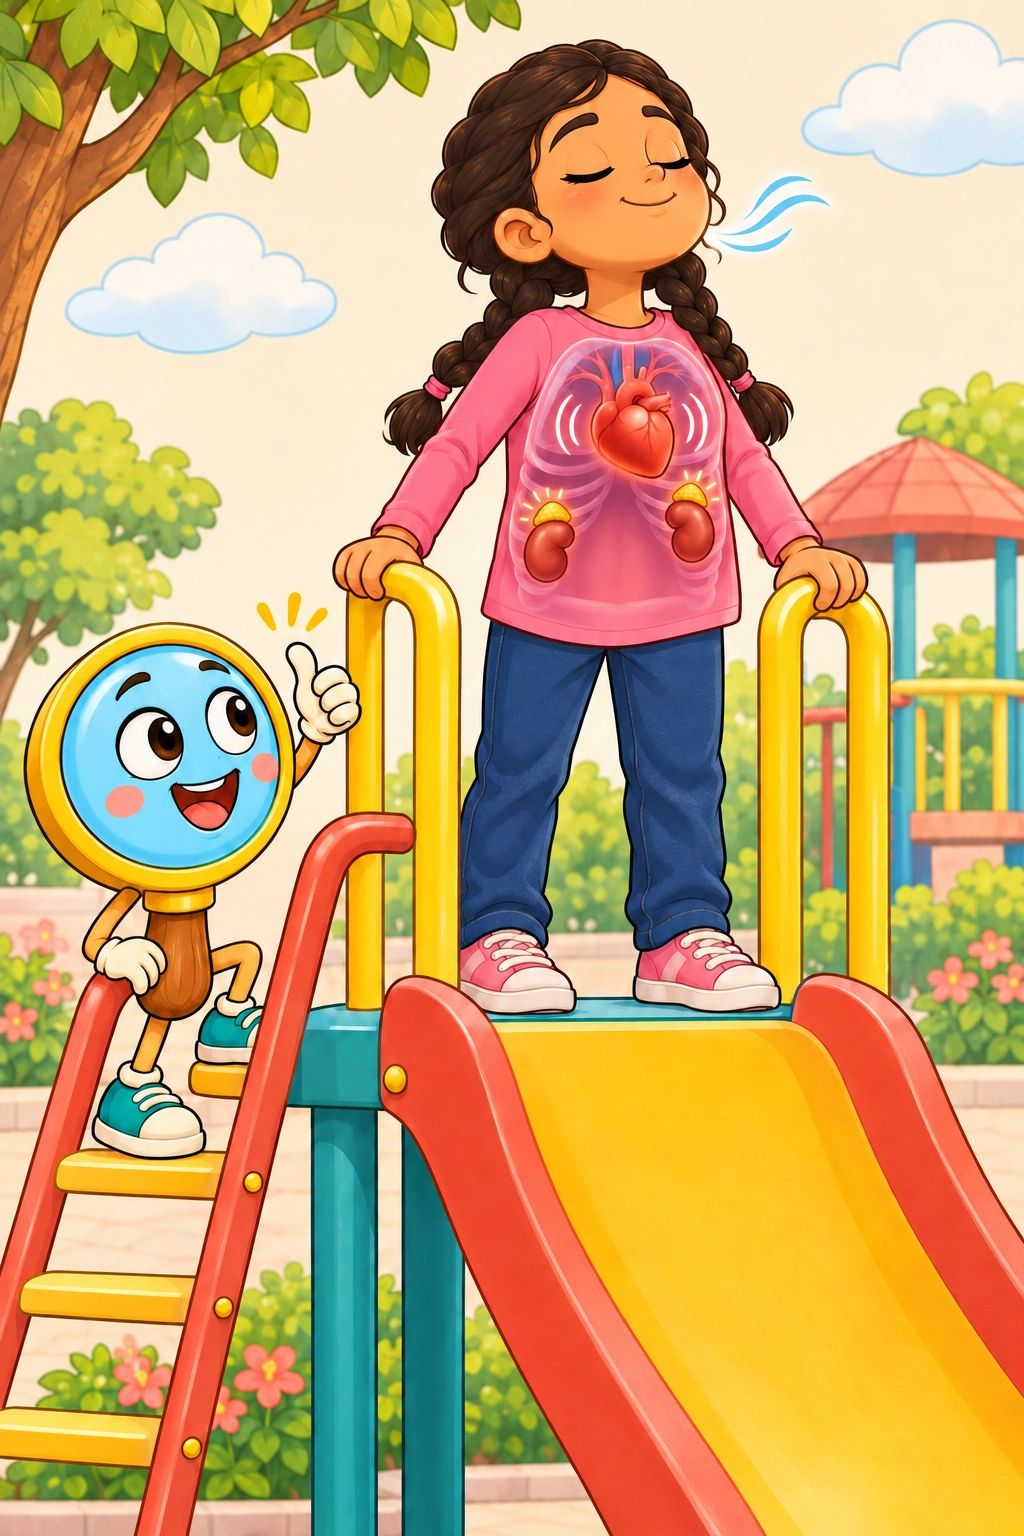
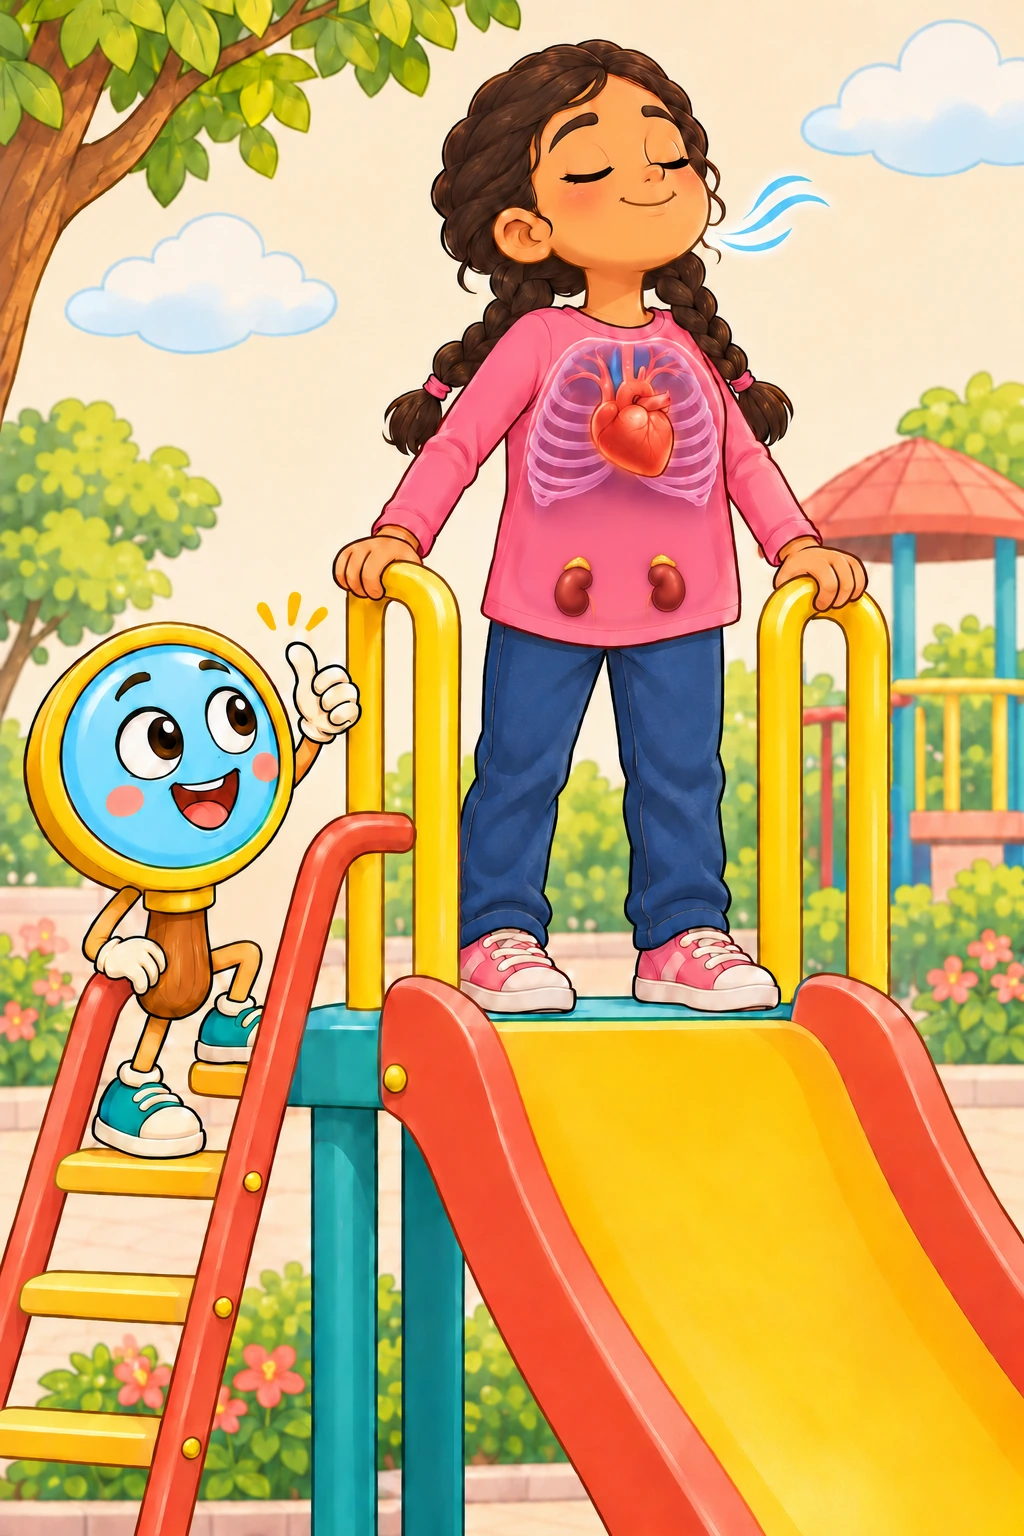
U08: غلاف درس الخوف للبنت (L04-title-girl) والكليتان تحت القفص الصدري، بقرار صاحب المشروع
Claude-Session: https://claude.ai/code/session_01G7CgDsKA6tkPvMjYD2KqLL

diff --git a/docs/27-برومبتات-المشاهد-U08.md b/docs/27-برومبتات-المشاهد-U08.md
@@ -29,7 +29,7 @@
 ### حالة الصور (25 نوفمبر 2026): 63 من 63
 - **رُسمت بالشيفرة (SVG ← WebP) 27 صورة تعليمية** بأسلوب رسوم U06 وU07: U08.L01-E1 إلى E6، وU08.L02-E1 إلى E6، وU08.L03-E1 إلى E6، وU08.L04-E1 وE2 وE4 وE6، وU08.L05-E1 وE2 وE3 وE5 وE6. مصدرها `art-sources/U08/sources/build_u08.py` (وملفات SVG بجانبه). وحين يُستبدل المشهد بتفاعل خاص تُكمّله الصورة ولا تكرّره (مثلاً: طفل يقرأ والضوء يدخل عينه فوق تفاعل «طريق الضوء»).
 - **وصلت 36 صورة قصصية مولّدة (25 نوفمبر 2026) ورُكّبت** (فيها البطل أو لمّاح أو مشهد تاريخي)، وراجعتها بنداً بنداً على سطور «تحقق» أدناه: الغلافات العشرة، وU08.L04-E3 وE5، وU08.L05-E4، وصور التجارب الخمس، والعلماء الثمانية، ورسائل الأعضاء الخمس، و«في حياتي» الخمس. البرومبتات كاملة جاهزة للنسخ في `art-sources/U08/prompts/الصور-القصصية-للنسخ.md` (وبصيغة JSON في `prompts-final-imagegen.json`).
-- **استُبدلت صورتان (25 نوفمبر 2026) بقرار صاحب المشروع:** `U08.L03-hist2` (باك وأكسل بلا حجاب، لأن البطاقة تسمّي شخصين حقيقيين)، و`U08.L04-title-boy` (الكليتان تحت القفص الصدري لا عند مستوى القلب). وبقي `U08.L04-title-girl` بالموضع الأعلى القديم.
+- **استُبدلت ثلاث صور (25 نوفمبر 2026) بقرار صاحب المشروع:** `U08.L03-hist2` (باك وأكسل بلا حجاب، لأن البطاقة تسمّي شخصين حقيقيين)، و`U08.L04-title-boy` و`U08.L04-title-girl` (الكليتان تحت القفص الصدري لا عند مستوى القلب).
 - إن وُلّدت صورة تعليمية بالأداة لاحقاً بجودة أعلى فهي تحلّ محل الرسم المتجهي بالاسم نفسه.
 
 ### قبل أن تبدأ
